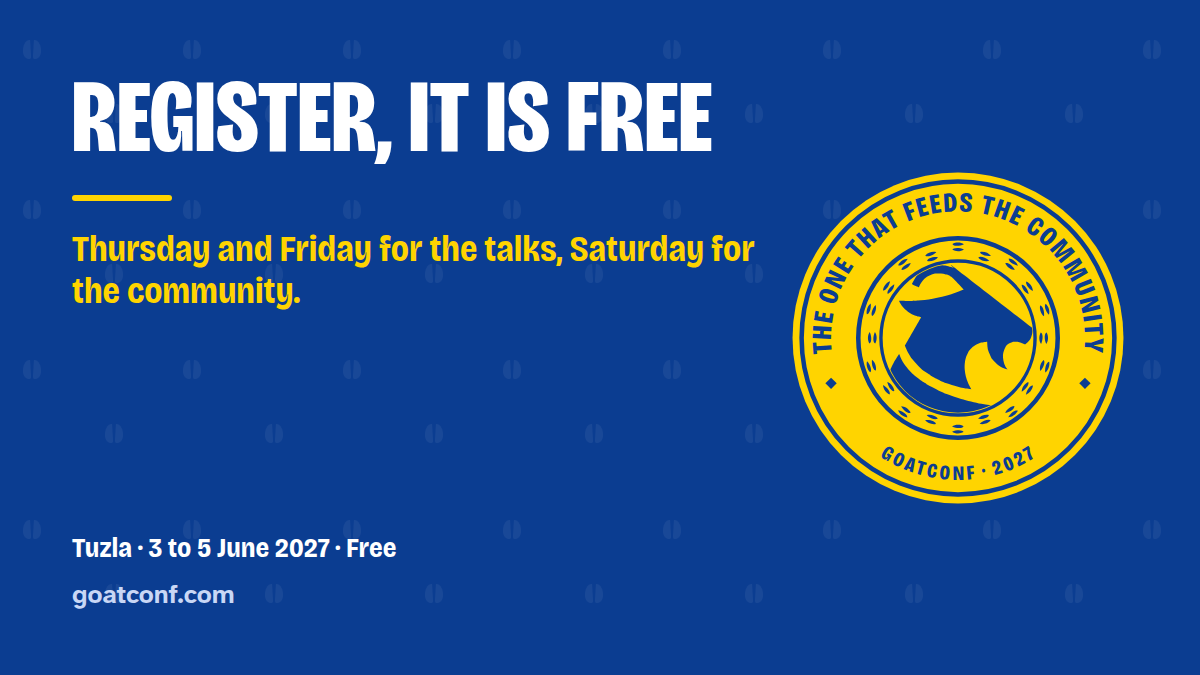
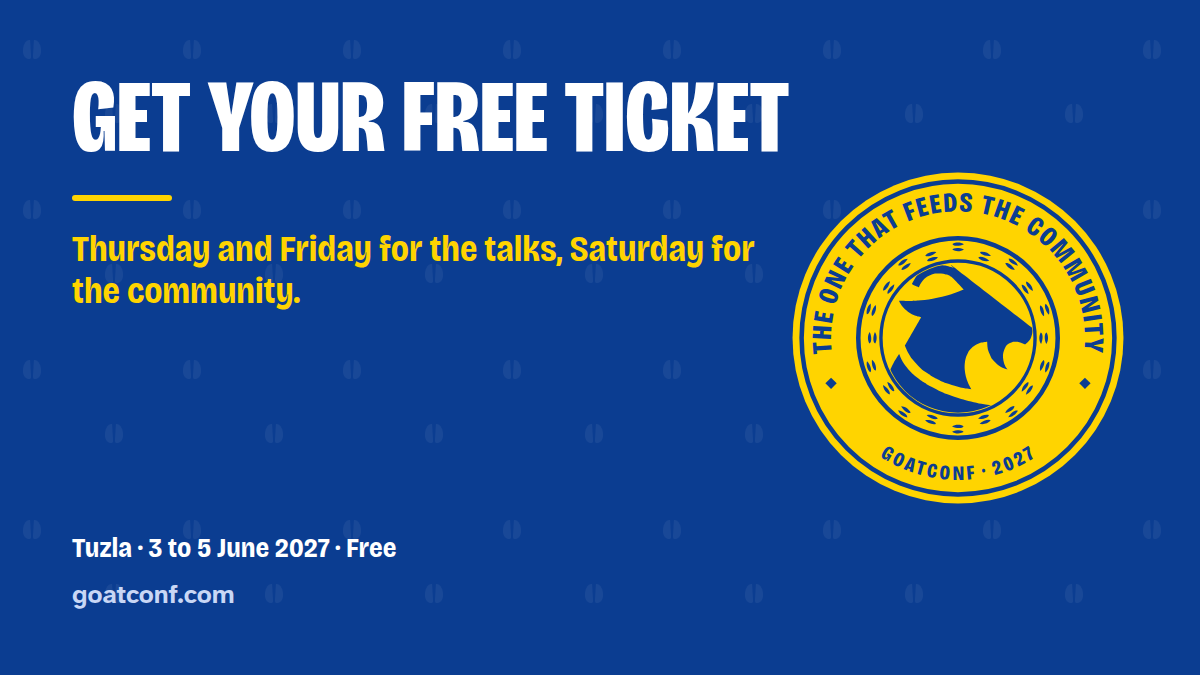
site: tickets are free, not absent
The organiser wants tickets; they are free. The home page, the register
page, the charter, llms.txt, the register share image and the week 3
drumbeat drafts now say the ticket is free instead of "no ticket".

Source: sources/conversations/2026-10-12--org--free-tickets.md.

Changed region(s): [[0.1233, 0.1244, 0.6783, 0.2489], [0.0617, 0.1244, 0.0925, 0.2489]]

diff --git a/files/site/charter.html b/files/site/charter.html
@@ -62,7 +62,7 @@
 <p>Every event listed under GoatConf's name accepts this charter and the <a href="code-of-conduct.html">code of conduct</a>. It follows the spirit of the FOSDEM charter.</p>
 <h2>What GoatConf is</h2>
 <ul>
-<li><strong>Free to attend.</strong> There is no ticket for the core days; <a href="register.html">registration</a> is free and tells us how many people to expect. Each session also has its own free registration that saves a seat up to the room's size; empty seats go to whoever is at the door when it starts.</li>
+<li><strong>Free to attend.</strong> Tickets for the core days are free: you get one by <a href="register.html">registering</a>, which also tells us how many people to expect. Each session also has its own free registration that saves a seat up to the room's size; empty seats go to whoever is at the door when it starts.</li>
 <li><strong>Small on purpose.</strong> The organiser brings a minimal core: the rooms, the talks and the breaks. Everything else is added by the people who come.</li>
 <li><strong>As little personal data as we can.</strong> You never have to give us anything the event does not need, unless the law or safety requires it. The registration list is never sold or shared, and it is deleted once the feedback survey has gone out.</li>
 </ul>

diff --git a/files/site/index.html b/files/site/index.html
@@ -82,7 +82,7 @@
   <div class="spread__page" aria-labelledby="decided-title">
     <h2 class="page-title" id="decided-title">What is decided</h2>
     <div class="slots slots--hero">
-      <div class="sticker sticker--fact" data-peel style="--tilt:-2deg"><span class="num">1</span><strong>Free</strong><small>No ticket.</small></div>
+      <div class="sticker sticker--fact" data-peel style="--tilt:-2deg"><span class="num">1</span><strong>Free</strong><small>Free tickets.</small></div>
       <figure class="sticker sticker--photo sticker--place" data-peel style="--tilt:1.5deg"><span class="num">2</span><img src="img/city-square-mosque-summer.jpg" width="1800" height="1195" alt="Freedom Square in Tuzla in summer, the mosque's minaret above the colourful houses"><figcaption>Tuzla</figcaption></figure>
       <div class="sticker sticker--fact" data-peel style="--tilt:1deg"><span class="num">3</span><strong>3 to 5 June</strong><small>2027, Thursday to Saturday.</small></div>
       <figure class="sticker sticker--photo" data-peel style="--tilt:-1.5deg"><span class="num">4</span><img src="img/ipi-lecture-hall.jpg" width="1024" height="768" alt="A talk in IPI Academy's lecture hall, students' faces blurred"><figcaption>IPI Academy</figcaption></figure>

diff --git a/files/site/register.html b/files/site/register.html
@@ -55,8 +55,8 @@
 <!-- /topbar -->
 <header class="page-head">
   <img class="page-head__photo" src="img/city-square-fountain-summer.jpg" width="1640" height="924" alt="The fountain on Freedom Square on a summer day, café umbrellas behind it" decoding="async">
-  <h1 class="sign">Register, it is free</h1>
-  <p class="lede">No ticket and no fee. Leave your name and email, and we will see you in Tuzla.</p>
+  <h1 class="sign">Get your free ticket</h1>
+  <p class="lede">Tickets are free. Leave your name and email, and we will see you in Tuzla.</p>
 </header>
 <main id="main" class="prose">
 <p class="cta"><a class="button" data-form="register" href="https://luma.com/event/evt-dU4KbLhpIAm9Y9V" data-luma-action="checkout" data-luma-event-id="evt-dU4KbLhpIAm9Y9V">Register for free</a><span>Open now, on Luma. It takes a minute.</span></p>

diff --git a/files/tools/agents.py b/files/tools/agents.py
@@ -54,7 +54,7 @@ EVENT = {
 FACTS = [
     "Dates: Thursday 3 and Friday 4 June 2027 are talk days; Saturday 5 June 2027 is the community day.",
     "Place: IPI Academy, Kulina bana 2, 75000 Tuzla, Bosnia and Herzegovina, next to Freedom Square (Trg slobode).",
-    "Price: free. Registration asks only for a name and an email, on Luma.",
+    "Price: tickets are free. Registration asks only for a name and an email, on Luma.",
     "Format: one-hour talks, panels and workshops in all seven rooms of IPI Academy, with an hour off after each slot. Each session has its own free registration on Luma that saves a seat up to the room's size, with a waiting list when full; empty seats go to whoever is at the door when it starts.",
     "Friday starts half an hour earlier, so the hour off at 12:30 covers Džuma prayer.",
     "Saturday has no talks: it is for events people add, such as the Pannonian salt lakes, the goat hunt, walks and meetups.",

diff --git a/files/tools/shareables.py b/files/tools/shareables.py
@@ -108,7 +108,7 @@ def post(w: int, h: int, title: str, line: str, square: bool) -> str:
 POSTS = {
     "save-the-date": ("Save<br>the date", "Two days of talks in every room of IPI Academy, then a day for the community."),
     "call-for-talks": ("The call<br>for talks<br>is open", "One hour, one room, an audience. No strict deadline."),
-    "register": ("Register,<br>it is free", "Thursday and Friday for the talks, Saturday for the community."),
+    "register": ("Get your<br>free ticket", "Thursday and Friday for the talks, Saturday for the community."),
     "add-something": ("Add<br>something", "A workshop, a meetup, a dinner, a hike: run it around GoatConf."),
 }
 

diff --git a/files/wiki/org/outreach/drumbeat.md b/files/wiki/org/outreach/drumbeat.md
@@ -77,7 +77,7 @@ The story in week 5 follows the EuRuKo 2024 account of the goat (source: sources
 - **Image:** `post-register-square.png`, `post-register-wide.png`
 - **LinkedIn:**
 
-  > Registration for GoatConf 2027 is open, and it is free. No ticket, no fee.
+  > Registration for GoatConf 2027 is open, and tickets are free.
   >
   > Come for the talks on Thursday 3 and Friday 4 June at IPI Academy in Tuzla, and stay for Saturday at the salt lakes. Seats are first come, first served at each room's door, and every session is followed by an hour off on Freedom Square.
   >
@@ -85,7 +85,7 @@ The story in week 5 follows the EuRuKo 2024 account of the goat (source: sources
 
 - **Short:**
 
-  > Registration for GoatConf 2027 is open and free. Talks on 3 and 4 June at IPI Academy, Tuzla, then a day at the salt lakes. Register in a minute: goatconf.com/register.html
+  > Registration for GoatConf 2027 is open, and tickets are free. Talks on 3 and 4 June at IPI Academy, Tuzla, then a day at the salt lakes. Register in a minute: goatconf.com/register.html
 
 ### Week 4: Add something to GoatConf
 

diff --git a/files/sources/conversations/2026-10-12--org--free-tickets.md b/files/sources/conversations/2026-10-12--org--free-tickets.md
@@ -1,0 +1,9 @@
+---
+title: "GoatConf has tickets, and they are free"
+date: 2026-10-12
+kind: conversation
+---
+
+The organiser wrote, verbatim:
+
+> Also, the site says no ticket, but we still want tickets, they are free though
